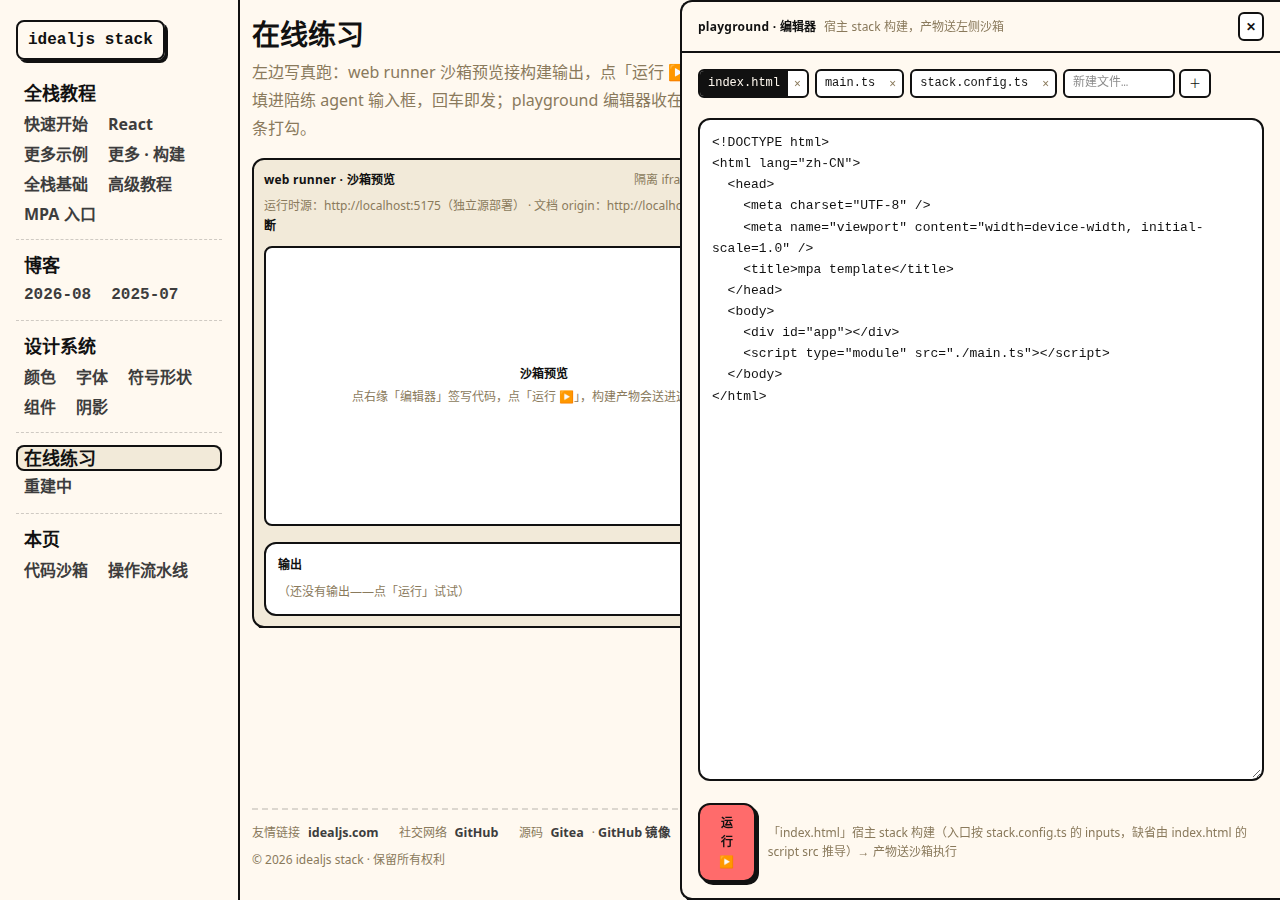
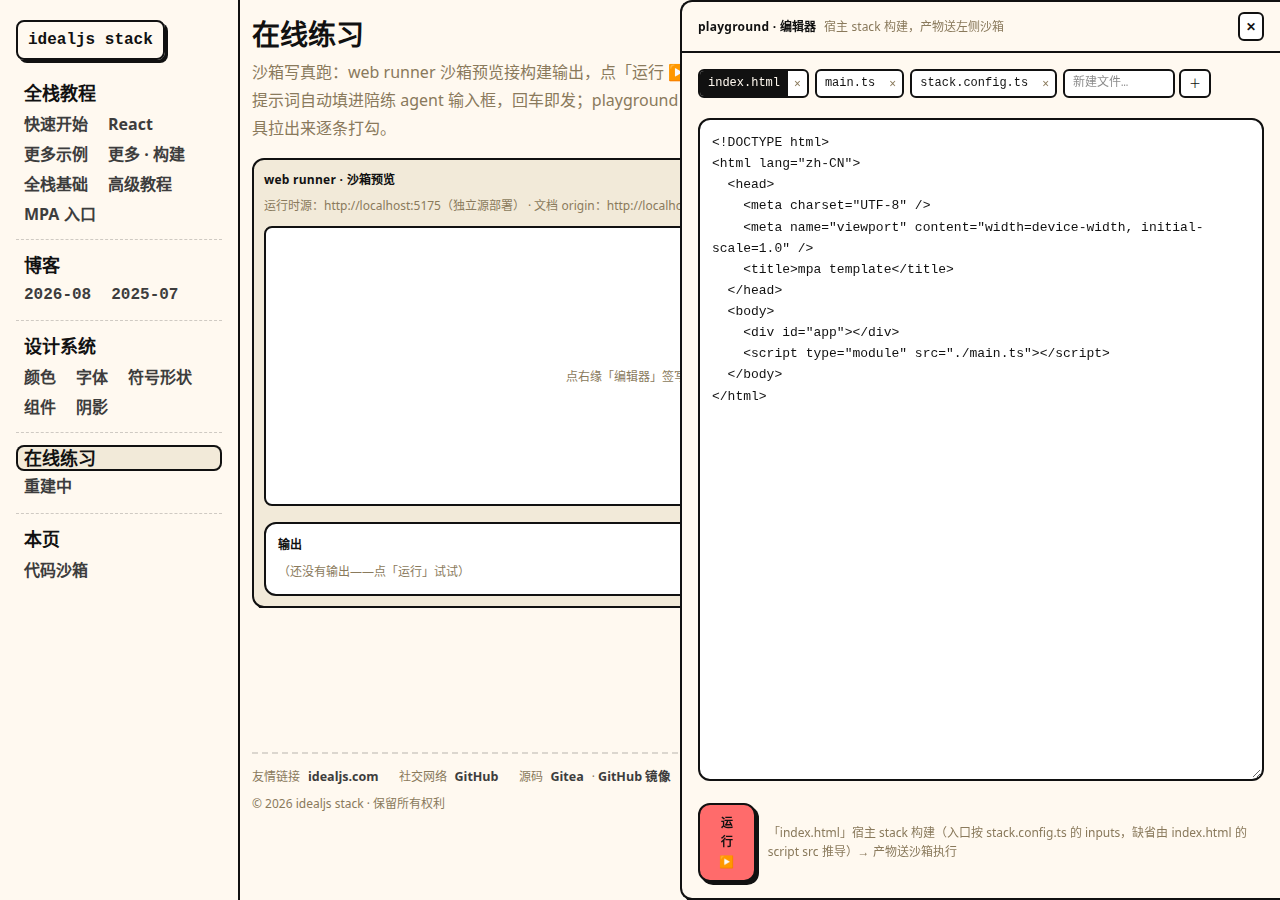
feat: 流水线收缩进右上角 tips 贴签——主区沙箱独占，「点一步喂给陪练」改为 tips 下拉面板
- 新增 TipsDock：右上角「💡 tips」圆角贴签（窄屏落到验收夹具下方避让），点开下拉流水线板，Esc/再点收起；与验收夹具、陪练贴签全局互斥
- 主区撤掉右栏流水线卡片，沙箱独占主区（保留 sticky 定高独立滚动）；侧栏「本页」撤下操作流水线锚点（面板固定定位无可滚到位）
- 简介、陪练开场白同语义改口；e2e 重写 tips/主区用例，布局自查补贴签停靠、避让夹具与展开无溢出（25 passed）

diff --git a/apps/tutorial/e2e/practice.spec.ts b/apps/tutorial/e2e/practice.spec.ts
@@ -8,6 +8,8 @@ const CHECKLIST = '[data-comp="clipboard-checklist"]'
 const FLOW = '[data-comp="data-flow-board"]'
 const EDITOR_TAB = '[data-comp="editor-dock-tab"]'
 const EDITOR_PANEL = '#editor-dock-panel'
+const TIPS = '[data-comp="tips-dock-trigger"]'
+const TIPS_PANEL = '#tips-dock-panel'
 
 test.describe('练习场 · 陪练 agent 贴签（右下角）', () => {
   test.beforeEach(async ({ page }) => {
@@ -117,22 +119,53 @@ test.describe('练习场 · 验收清单夹板（顶部右上）', () => {
   })
 })
 
-test.describe('练习场 · 右栏流水线卡片', () => {
+test.describe('练习场 · tips 喂给陪练（右上角）', () => {
   test.beforeEach(async ({ page }) => {
     await page.goto('/practice.html')
   })
 
-  test('右栏只留流水线卡片：练习任务文字区与流水线标题说明已撤下', async ({ page }) => {
-    await expect(page.locator('#practice-brief')).toHaveCount(0)
-    await expect(page.locator('#practice-flow h2')).toHaveCount(0)
+  test('tips 贴签停靠右上角，默认收起；点击展开流水线板、再点与 Esc 收起，与验收夹具互斥', async ({
+    page,
+  }) => {
+    await page.setViewportSize({ width: 1280, height: 900 })
+    const tips = page.locator(TIPS)
+    await expect(tips).toBeVisible()
+    await expect(tips).toHaveAttribute('aria-label', 'tips · 喂给陪练')
+    await expect(tips).toHaveAttribute('aria-expanded', 'false')
+    await expect(tips).toHaveAttribute('aria-controls', 'tips-dock-panel')
+    await expect(page.locator(TIPS_PANEL)).toBeHidden()
 
-    const board = page.locator('#practice-flow').locator(FLOW)
+    const chipBox = await tips.boundingBox()
+    expect(chipBox).not.toBeNull()
+    expect(chipBox!.y, 'tips 贴签应停靠顶缘').toBeLessThanOrEqual(20)
+    expect(1280 - (chipBox!.x + chipBox!.width), 'tips 贴签应停靠右缘').toBeLessThanOrEqual(24)
+
+    await tips.click()
+    await expect(tips).toHaveAttribute('aria-expanded', 'true')
+    const panel = page.locator(TIPS_PANEL)
+    await expect(panel).toBeVisible()
+    const board = panel.locator(FLOW)
     await expect(board).toBeVisible()
     await expect(board.locator('h3')).toContainText('点一步，喂给陪练')
+
+    await page.keyboard.press('Escape')
+    await expect(panel).toBeHidden()
+    await expect(tips).toHaveAttribute('aria-expanded', 'false')
+
+    await tips.click()
+    await expect(panel).toBeVisible()
+    await page.locator(CLIP).click()
+    await expect(page.locator(LIST_PANEL)).toBeVisible()
+    await expect(panel).toBeHidden()
+    await expect(tips).toHaveAttribute('aria-expanded', 'false')
   })
 
-  test('操作流水线：数据流水线板在场，三步同源示例提示词，第一步为虚线起点', async ({ page }) => {
-    const board = page.locator('#practice-flow').locator(FLOW)
+  test('流水线板收进面板：主区不再有板，三步同源提示词，第一步为虚线起点', async ({ page }) => {
+    await expect(page.locator('#practice-sandbox').locator(FLOW)).toHaveCount(0)
+    await expect(page.locator('main > #practice-flow')).toHaveCount(0)
+
+    await page.locator(TIPS).click()
+    const board = page.locator(TIPS_PANEL).locator(FLOW)
     await expect(board).toBeVisible()
     await expect(board).toContainText('脚手架')
 
@@ -145,14 +178,16 @@ test.describe('练习场 · 右栏流水线卡片', () => {
     await expect(steps.locator('button')).toHaveCount(3)
   })
 
-  test('点击流水线步骤：陪练面板自动展开，提示词填入输入框并聚焦，回车直达 Key 门', async ({
+  test('点击流水线步骤：陪练面板自动展开且 tips 收起，提示词填入输入框并聚焦，回车直达 Key 门', async ({
     page,
   }) => {
-    const steps = page.locator(`${FLOW} .learning-flow-step`)
+    await page.locator(TIPS).click()
+    const steps = page.locator(`${TIPS_PANEL} ${FLOW} .learning-flow-step`)
     await steps.first().locator('button').click()
 
     const panel = page.locator(COACH_PANEL)
     await expect(panel).toBeVisible()
+    await expect(page.locator(TIPS_PANEL)).toBeHidden()
     await expect(page.locator(COACH_TAB)).toHaveAttribute('aria-expanded', 'true')
     const input = panel.locator('textarea')
     await expect(input).toHaveValue('创建一个 vite 项目，使用 React 和 TypeScript，工程名叫 demo。')
@@ -164,6 +199,8 @@ test.describe('练习场 · 右栏流水线卡片', () => {
 
     await page.keyboard.press('Escape')
     await expect(page.locator(COACH_PANEL)).toBeHidden()
+
+    await page.locator(TIPS).click()
     await steps.nth(2).locator('button').click()
     await expect(input).toHaveValue(
       '创建一个 vite 项目，使用 Vue 和 TypeScript，工程名叫 vue-counter，初始同样带一个点按加一的计数器，同样不要引入 UI 库；建完把文件结构和 React 版的差异讲给我听。',
@@ -171,12 +208,12 @@ test.describe('练习场 · 右栏流水线卡片', () => {
   })
 })
 
-test.describe('练习场 · 主区双栏布局', () => {
+test.describe('练习场 · 主区布局', () => {
   test.beforeEach(async ({ page }) => {
     await page.goto('/practice.html')
   })
 
-  test('沙箱在左、流水线在右，大屏下双栏各自独立滚动', async ({ page }) => {
+  test('沙箱独占主区，大屏下沙箱栏独立滚动', async ({ page }) => {
     await page.setViewportSize({ width: 1280, height: 900 })
     const runner = page.locator('section[aria-label="web runner 沙箱预览"]')
     await expect(runner).toBeVisible()
@@ -185,22 +222,10 @@ test.describe('练习场 · 主区双栏布局', () => {
     await expect(runner.locator('[data-testid="sandbox-frame"]')).toHaveCount(1)
     await expect(runner.getByRole('region', { name: '输出' })).toBeVisible()
 
-    const board = page.locator('#practice-flow').locator(FLOW)
-    await expect(board).toBeVisible()
-
-    const runnerBox = await runner.boundingBox()
-    const boardBox = await board.boundingBox()
-    expect(runnerBox && boardBox ? boardBox.x : 0).toBeGreaterThan(
-      runnerBox ? runnerBox.x + runnerBox.width : 0,
-    )
-
-    const overflows = await page.evaluate(() => {
-      const sandbox = document.getElementById('practice-sandbox')
-      const flow = document.getElementById('practice-flow')?.parentElement
-      if (!sandbox || !flow) return null
-      return [sandbox, flow].map((el) => getComputedStyle(el).overflowY)
-    })
-    expect(overflows, '双栏都应是独立滚动容器').toEqual(['auto', 'auto'])
+    const sandboxOverflow = await page
+      .locator('#practice-sandbox')
+      .evaluate((el) => getComputedStyle(el).overflowY)
+    expect(sandboxOverflow, '沙箱栏应是独立滚动容器').toBe('auto')
   })
 
   test('运行前预览区展示占位说明，iframe 未运行时不显示，编辑器收成固定贴签不占排版', async ({
@@ -267,7 +292,7 @@ test.describe('练习场 · 编辑器侧栏（右缘）', () => {
 })
 
 test.describe('练习场 · 布局自查', () => {
-  test('320/390/768/1280 无横向溢出，清单夹具停靠右上、陪练贴签停靠右下、编辑器签停靠右缘', async ({
+  test('320/390/768/1280 无横向溢出，清单夹具与 tips 贴签停靠右上、陪练贴签右下、编辑器签右缘', async ({
     page,
   }) => {
     await page.goto('/practice.html')
@@ -285,6 +310,17 @@ test.describe('练习场 · 布局自查', () => {
       expect(clipBox!.x + clipBox!.width, `宽度 ${width} 清单夹具越出右缘`).toBeLessThanOrEqual(
         width,
       )
+
+      const tipsBox = await page.locator(TIPS).boundingBox()
+      expect(tipsBox).not.toBeNull()
+      expect(tipsBox!.y, `宽度 ${width} tips 贴签距顶缘过大`).toBeLessThanOrEqual(60)
+      expect(
+        width - (tipsBox!.x + tipsBox!.width),
+        `宽度 ${width} tips 贴签越出右缘`,
+      ).toBeLessThanOrEqual(24)
+      const clearOfClip =
+        tipsBox!.y > clipBox!.y + clipBox!.height || tipsBox!.x > clipBox!.x + clipBox!.width
+      expect(clearOfClip, `宽度 ${width} tips 贴签与清单夹具重叠`).toBe(true)
 
       await page.locator(CLIP).click()
       await expect(page.locator(LIST_PANEL)).toBeVisible()
@@ -317,6 +353,15 @@ test.describe('练习场 · 布局自查', () => {
       expect(panelOverflow, `宽度 ${width} 编辑器展开后出现横向溢出`).toBe(0)
       await page.keyboard.press('Escape')
       await expect(page.locator(EDITOR_PANEL)).toBeHidden()
+
+      await page.locator(TIPS).click()
+      await expect(page.locator(TIPS_PANEL)).toBeVisible()
+      const tipsOverflow = await page.evaluate(
+        () => document.documentElement.scrollWidth - document.documentElement.clientWidth,
+      )
+      expect(tipsOverflow, `宽度 ${width} tips 展开后出现横向溢出`).toBe(0)
+      await page.keyboard.press('Escape')
+      await expect(page.locator(TIPS_PANEL)).toBeHidden()
     }
   })
 })

diff --git a/apps/tutorial/src/pages/practice/components/PracticeWorkspace.tsx b/apps/tutorial/src/pages/practice/components/PracticeWorkspace.tsx
@@ -23,10 +23,11 @@ import { ChecklistDock } from './ChecklistDock'
 import { DockSticky } from './DockSticky'
 import { EditorDock } from './EditorDock'
 import { KeyModal } from './KeyModal'
+import { TipsDock } from './TipsDock'
 
 const FLOW_TONES = ['coral', 'teal', 'blue'] as const
 
-type DockPane = 'agent' | 'checklist' | null
+type DockPane = 'agent' | 'checklist' | 'tips' | null
 
 function appendAssistant(items: ChatItem[], delta: string): ChatItem[] {
   const next = items.slice()
@@ -71,7 +72,7 @@ export function PracticeWorkspace() {
   const [chat, setChat] = useState<ChatItem[]>(() => [
     {
       kind: 'assistant',
-      text: `我是这个练习场的陪练 agent，收在右下角贴签里。当前任务「${task.title}」——点右侧流水线卡片的任意一步，提示词会自动填进输入框，回车就能发给我；也可以直接聊思路、要代码、贴报错。代码写进右缘「编辑器」侧栏（点右缘小签拉开），点「运行 ▶」在沙箱里真跑；验收清单夹在页面右上角，做完拉出来逐条打勾。`,
+      text: `我是这个练习场的陪练 agent，收在右下角贴签里。当前任务「${task.title}」——点右上角「tips」拉出操作流水线，点任意一步，提示词会自动填进输入框，回车就能发给我；也可以直接聊思路、要代码、贴报错。代码写进右缘「编辑器」侧栏（点右缘小签拉开），点「运行 ▶」在沙箱里真跑；验收清单夹在页面右上角，做完拉出来逐条打勾。`,
     },
   ])
 
@@ -138,36 +139,38 @@ export function PracticeWorkspace() {
   return (
     <div className="pb-24" suppressHydrationWarning>
       <PlaygroundProvider initialFiles={TEMPLATE_FILES}>
-        <div className="grid items-start gap-3 lg:grid-cols-[minmax(0,1fr)_minmax(0,26rem)]">
-          <div
-            id="practice-sandbox"
-            className="grid scroll-mt-3 content-start gap-3 lg:sticky lg:top-3 lg:max-h-[calc(100dvh-1.5rem)] lg:overflow-y-auto lg:pr-1"
+        <div
+          id="practice-sandbox"
+          className="grid scroll-mt-3 content-start gap-3 lg:sticky lg:top-3 lg:max-h-[calc(100dvh-1.5rem)] lg:overflow-y-auto lg:pr-1"
+        >
+          <section
+            aria-label="web runner 沙箱预览"
+            className="rounded-xl border-2 border-ink bg-paper-deep p-2.5 shadow-ink"
           >
-            <section
-              aria-label="web runner 沙箱预览"
-              className="rounded-xl border-2 border-ink bg-paper-deep p-2.5 shadow-ink"
-            >
-              <div className="mb-1.5 flex flex-wrap items-baseline justify-between gap-x-2">
-                <span className="t-small-strong">web runner · 沙箱预览</span>
-                <span className="t-small-mute">隔离 iframe，postMessage 单通道</span>
-              </div>
-              <StatusLine />
-              <RunnerStage />
-              <OutputView />
-            </section>
-          </div>
-
-          <div className="lg:sticky lg:top-3 lg:max-h-[calc(100dvh-1.5rem)] lg:overflow-y-auto lg:pr-1">
-            <section id="practice-flow" className="grid scroll-mt-3">
-              <DataFlowBoard
-                title="点一步，喂给陪练"
-                note="点击任一步骤：陪练面板自动展开、提示词填进输入框，确认无误按回车发送。"
-                steps={flowSteps}
-                onStepClick={(step) => feedDraft(stepPrompt(step.id))}
-              />
-            </section>
-          </div>
+            <div className="mb-1.5 flex flex-wrap items-baseline justify-between gap-x-2">
+              <span className="t-small-strong">web runner · 沙箱预览</span>
+              <span className="t-small-mute">隔离 iframe，postMessage 单通道</span>
+            </div>
+            <StatusLine />
+            <RunnerStage />
+            <OutputView />
+          </section>
         </div>
+
+        <TipsDock
+          panelId="tips-dock-panel"
+          open={openDock === 'tips'}
+          onToggle={() => setOpenDock((v) => (v === 'tips' ? null : 'tips'))}
+        >
+          <section id="practice-flow">
+            <DataFlowBoard
+              title="点一步，喂给陪练"
+              note="点击任一步骤：陪练面板自动展开、提示词填进输入框，确认无误按回车发送。"
+              steps={flowSteps}
+              onStepClick={(step) => feedDraft(stepPrompt(step.id))}
+            />
+          </section>
+        </TipsDock>
 
         <EditorDock
           panelId="editor-dock-panel"

diff --git a/apps/tutorial/src/pages/practice/components/TipsDock.tsx b/apps/tutorial/src/pages/practice/components/TipsDock.tsx
@@ -1,0 +1,62 @@
+import type { ReactNode } from 'react'
+import { useEffect } from 'react'
+
+export function TipsDock({
+  panelId,
+  open,
+  onToggle,
+  children,
+}: {
+  panelId: string
+  open: boolean
+  onToggle: () => void
+  children: ReactNode
+}) {
+  useEffect(() => {
+    if (!open) return
+    const onKey = (event: KeyboardEvent) => {
+      if (event.key === 'Escape') onToggle()
+    }
+    window.addEventListener('keydown', onKey)
+    return () => window.removeEventListener('keydown', onKey)
+  }, [open, onToggle])
+
+  return (
+    <div className="pointer-events-none fixed top-[52px] right-4 z-40 w-[min(380px,calc(100vw-24px))] sm:top-3 sm:right-6">
+      <button
+        type="button"
+        data-comp="tips-dock-trigger"
+        aria-expanded={open}
+        aria-controls={panelId}
+        aria-label="tips · 喂给陪练"
+        title="tips · 喂给陪练"
+        onClick={onToggle}
+        className="pointer-events-auto ml-auto flex cursor-pointer items-center gap-1.5 rounded-full border-2 border-ink bg-paper px-3 py-1.5 text-[12.5px] font-extrabold text-ink shadow-[3px_3px_0_var(--color-ink)] outline-none transition-[translate] duration-150 motion-reduce:transition-none hover:-translate-y-0.5"
+      >
+        <span aria-hidden>💡</span>
+        <span>tips</span>
+        <span aria-hidden className="text-[10px] leading-none">
+          {open ? '▴' : '▾'}
+        </span>
+      </button>
+
+      <div
+        className={`pointer-events-auto mt-2 grid transition-[grid-template-rows,opacity,visibility] duration-200 ease-out motion-reduce:transition-none ${
+          open
+            ? 'visible [grid-template-rows:1fr] opacity-100'
+            : 'invisible pointer-events-none [grid-template-rows:0fr] opacity-0'
+        }`}
+      >
+        <div className="min-h-0 overflow-hidden">
+          <section
+            id={panelId}
+            aria-label="喂给陪练面板"
+            className="max-h-[min(560px,calc(100dvh-160px))] overflow-auto"
+          >
+            {children}
+          </section>
+        </div>
+      </div>
+    </div>
+  )
+}

diff --git a/apps/tutorial/src/pages/practice/App.tsx b/apps/tutorial/src/pages/practice/App.tsx
@@ -9,10 +9,7 @@ const PAGE_ROWS: NavRowGroup[] = [
   {
     sectionKey: 'practice-page',
     label: '本页',
-    items: [
-      { key: 'practice-sandbox', label: '代码沙箱', href: '#practice-sandbox' },
-      { key: 'practice-flow', label: '操作流水线', href: '#practice-flow' },
-    ],
+    items: [{ key: 'practice-sandbox', label: '代码沙箱', href: '#practice-sandbox' }],
   },
 ]
 
@@ -24,8 +21,8 @@ export function App() {
         <div className="mb-4">
           <h1 className="m-0 text-t1 font-extrabold text-ink">在线练习</h1>
           <p className="m-0 mt-1.5 text-content text-mute">
-            左边写真跑：web runner 沙箱预览接构建输出，点「运行 ▶」产物送进隔离 iframe
-            执行；右边点「操作流水线」卡片任意一步，提示词自动填进陪练 agent
+            沙箱写真跑：web runner 沙箱预览接构建输出，点「运行 ▶」产物送进隔离 iframe
+            执行；右上角「💡 tips」拉出操作流水线，点任意一步，提示词自动填进陪练 agent
             输入框，回车即发；playground
             编辑器收在右缘侧栏，点「编辑器」签拉开写码；验收清单夹在页面右上角，点夹具拉出来逐条打勾。
           </p>
